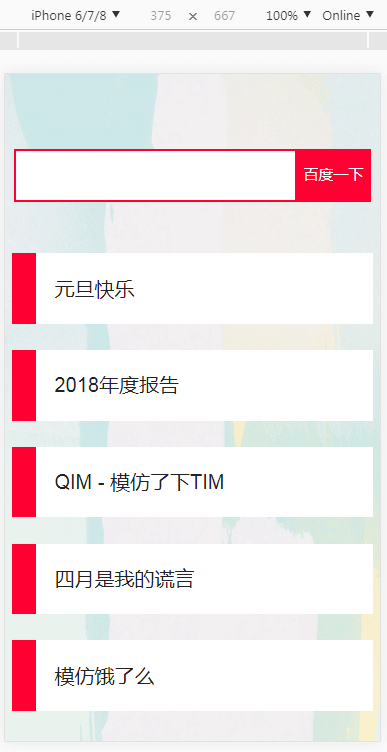
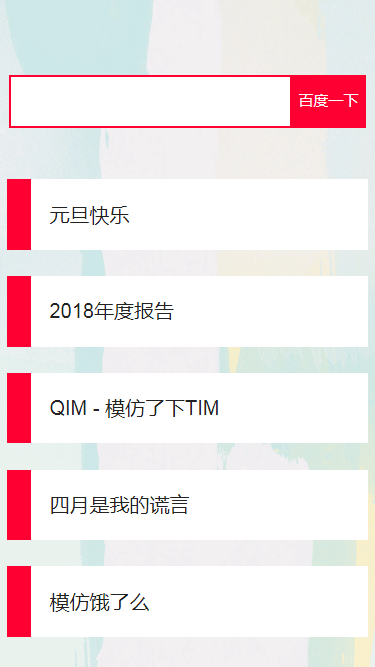
1

diff --git a/index.html b/index.html
@@ -14,7 +14,7 @@
 </head>
 <body>
 <script src="https://cdnjs.cloudflare.com/ajax/libs/Swiper/4.0.2/js/swiper.min.js"></script>
-<script src="js/jquery.min.js"></script>
+<script src="http://code.jquery.com/jquery-2.1.1.min.js"></script>
 <div class="warpper swiper-container">
 	<section class="warpper-left">
 		<nav>
@@ -179,29 +179,47 @@
 </div>
 
 <div class="moblie">
-	<div class="demo">
-		<div class="text">
-			<a href="demo/demo1/index.html">元旦快乐</a>
+	<div class="search">
+		<div class="mobLogo">
+			<img src="images/logo.gif">
 		</div>
-		<div class="text">
-			<a href="demo/demo2/index.html">2018年度报告</a>
+		<div class="searchBox">
+			<input type="text" value="" placeholder="搜索或输入网址" onkeydown="keymobsousuo()">
+			<input type="button">
 		</div>
-		<div class="text">
-			<a href="demo/demo3/index.html">QIM - 模仿了下TIM</a>
+		<div class="searchBoxBg"></div>
+		<div class="searchText"></div>
+	</div>
+	<div class="mobNav">
+		<div class="mobDemo">
+			<a href="demo/demo1/index.html"></a>
+			<div class="title">demo1</div>
 		</div>
-		<div class="text">
-			<a href="demo/demo4/index.html">四月是我的谎言</a>
+		<div class="mobDemo">
+			<a href="demo/demo2/index.html"></a>
+			<div class="title">demo2</div>
 		</div>
-		<div class="text">
-			<a href="demo/demo5/index.html">模仿饿了么</a>
+		<div class="mobDemo">
+			<a href="demo/demo3/index.html"></a>
+			<div class="title">demo3</div>
 		</div>
-		<div class="text">
-			<a href="demo/demo6/index.html">重构我的网站</a>
+		<div class="mobDemo">
+			<a href="demo/demo4/index.html"></a>
+			<div class="title">demo4</div>
+		</div>
+		<div class="mobDemo">
+			<a href="demo/demo5/index.html"></a>
+			<div class="title">demo5</div>
+		</div>
+		<div class="mobDemo">
+			<a href="demo/demo6/index.html"></a>
+			<div class="title">demo6</div>
 		</div>
 	</div>
 </div>
 
 <script>   
+let color = ['#f03','#00C470','#FF3854','#00A8FF','#FF70A8','#FFC41C','#CC1C54'];
 
     var mySwiper = new Swiper ('.swiper-container', {
         direction: 'horizontal', 
@@ -224,7 +242,7 @@
             },
              transitionStart: function(){
              	/*let colorrgb = "rgb(" + Math.round(Math.random() * 255) + "," + Math.round(Math.random() * 255) + ',' + Math.round(Math.random() * 10) + ')';*/
-            	let color = ['#f03','#00C470','#FF3854','#00A8FF','#FF70A8','#FFC41C','#CC1C54'];
+            	
             	/*color.push();*/
 		    	let red = document.getElementsByClassName('background-radius');
 		    	let sliIndex = document.getElementsByClassName('sliIndex');
@@ -270,8 +288,85 @@ $('#sliIndex6').click(function(){
 let sousuo = document.getElementById('search_text');
 let baidu = document.getElementById('search_button');
 let baiduurl = "https://www.baidu.com/s?wd=";
+let googleurl = "https://g.moeyui.cn/search?q=";
 
 let baiduurl_text =  document.querySelectorAll("ol li");
+
+let inputT = document.getElementsByTagName('input');
+let mob = document.getElementsByClassName('moblie')[0];
+let mobLogo = document.getElementsByClassName('mobLogo')[0];
+let searchBoxBg = document.getElementsByClassName('searchBoxBg')[0];
+let searchText = document.getElementsByClassName('searchText')[0];
+
+inputT[1].onfocus = function() {
+	this.placeholder='';	
+	mob.style.paddingTop= '0'; 
+	mobLogo.style.width = '0';
+	searchBoxBg.style.display = 'block';
+	searchBoxBg.style.backgroundColor = 'rgba(255,255,255,.7)';
+}
+
+inputT[1].oninput = function () {
+	if (inputT[1].value !== '')  {
+		inputT[2].style.display = 'block';
+		searchBoxBg.style.backgroundColor = 'rgba(255,255,255,1)';
+		searchText.innerHTML = inputT[1].value;
+	}else{
+		inputT[2].style.display = 'none';
+		searchText.innerHTML = '';
+		searchBoxBg.style.backgroundColor = 'rgba(255,255,255,.7)';
+	}
+}
+
+inputT[2].addEventListener('click',function() {
+	inputT[1].value = '';
+	inputT[2].style.display = 'none';
+	searchText.innerHTML = inputT[1].value;
+	searchBoxBg.style.backgroundColor = 'rgba(255,255,255,.7)';
+	inputT[1].focus();
+});
+
+function keymobsousuo(){
+ if (event.keyCode==13 || inputT[1].value.match('http')){
+ 	window.open(inputT[1].value)
+ }else if (event.keyCode==13 ) {
+ 	window.open(googleurl + inputT[1].value)
+ }
+	
+}
+
+searchText.addEventListener('click',function() {
+	if (inputT[1].value.match('http')){
+	 window.open(inputT[1].value)
+	}else{
+		window.open(googleurl + inputT[1].value)
+	}
+});
+
+inputT[1].onblur = function() {
+	if (inputT[1].value !== '') {
+		return
+	}
+	this.placeholder='搜索或输入网址';
+	mob.style.paddingTop= '25%'; 
+	mobLogo.style.width = '100%';
+	searchBoxBg.style.display = 'none';
+}
+
+
+
+
+let mobDemoA = document.querySelectorAll(".mobDemo a");
+
+let mobcolor = [];
+
+mobcolor = mobcolor.concat(color);
+
+mobcolor.splice(0,1);
+
+for(let i = 0; i < mobcolor.length; i++){
+	mobDemoA[i].style.backgroundColor = mobcolor[i];
+}
 
 baidu.addEventListener('click',function() {
 	window.open(baiduurl + sousuo.value)
@@ -282,11 +377,15 @@ function keysousuo(){
 window.open(baiduurl + sousuo.value)
 }
 
+
+
 for(let i = 0; i<baiduurl_text.length -6; i++){
 baiduurl_text[i].addEventListener('click',function() {
 	window.open(baiduurl + baiduurl_text[i].innerHTML)
 	});
 }
+
+
 
 </script>
 </body>

diff --git a/css/moblie.css b/css/moblie.css
@@ -1,2 +1,2 @@
-@media screen and (max-width: 1366px){.subnav{width:1200px !important}.subnav li{font-size:16px}}@media screen and (max-width: 1050px){li{font-size:16px !important}}@media screen and (max-width: 980px){.warpper-left{display:none}.subnav{width:100vw !important}}@media screen and (max-width: 765px){.warpper{display:none}.swiper-pagination{display:none}.background-radius{display:none}.moblie{width:100%;height:100%;display:block;position:absolute;top:0;left:0;padding:10% 10%;z-index:999;background:#f03}.moblie .text{font-size:18px;height:30px;line-height:30px;margin-bottom:15px}.moblie .text a{color:#fff}.moblie .text a::before{content:'';width:7px;height:30px;line-height:30px;background:#fff;position:absolute;left:0}}
+@media screen and (max-width: 1366px){.subnav{width:1200px !important}.subnav li{font-size:16px}}@media screen and (max-width: 1050px){li{font-size:16px !important}}@media screen and (max-width: 980px){.warpper-left{display:none}.subnav{width:100vw !important}}@media screen and (max-width: 765px){.warpper{display:none}.swiper-pagination{display:none}.background-radius{display:none}.moblie{width:100%;height:100%;display:block;padding:25% 5%;box-sizing:border-box;z-index:999;background:#fff;transition:all .3s}.moblie .search{width:100%;margin-bottom:5%}.moblie .search .mobLogo{width:100%;text-align:center}.moblie .search .mobLogo img{width:60%;height:auto}.moblie .search .searchBox{width:100%;margin:5% 0;position:relative}.moblie .search .searchBox input[type='text']{width:100%;height:40px;line-height:40px;font-size:16px;text-align:left;text-indent:20px;background:none;border-radius:40px;border:none;box-shadow:0 0 5px 1px #d2d2d2}.moblie .search .searchBox input[type='button']{position:absolute;display:none;top:10px;right:10px;width:20px;height:20px;border:none;background:none;background-image:url("../images/delete.png");background-size:20px 20px}.moblie .search .searchBoxBg{position:absolute;left:0;width:100%;height:100%;background:#fff;display:none;transition:.3s;transition-delay:.3s}.moblie .search .searchText{position:absolute;font-size:16px;text-indent:20px}.moblie .mobNav{display:flex;width:100%;padding:5% 0;box-sizing:border-box;flex-wrap:wrap}.moblie .mobNav .mobDemo{width:25%}.moblie .mobNav .mobDemo a{display:block;width:36px;height:36px;background:red;border-radius:50%;margin:2px auto}.moblie .mobNav .mobDemo .title{width:36px;vertical-align:top;font-size:10px;margin:5px auto}}
 /*# sourceMappingURL=moblie.css.map */

diff --git a/demo/demo6/css/index.css b/demo/demo6/css/index.css
@@ -1,2 +1,2 @@
-*{margin:0;padding:0;outline:none;-ms-user-select:none;user-select:none;-webkit-user-select:none;-moz-user-select:none}html{font-size:10px;font-family:arial}body,html{overflow-x:hidden}.wrapper{padding:10% 4%;background:#222}.wrapper .text{color:#fff;font-size:16px;text-align:justify;margin:7% 0;text-indent:2em}.wrapper img{width:100%;height:auto;display:block;margin:7% 0}
+*{margin:0;padding:0;outline:none;text-decoration:none;-ms-user-select:none;user-select:none;-webkit-user-select:none;-moz-user-select:none}html{font-size:10px;font-family:arial}body,html{overflow-x:hidden}.wrapper{padding:10% 4%;background:#222}.wrapper .text{color:#fff;font-size:16px;text-align:justify;margin:7% 0;text-indent:2em}.wrapper .text a{color:#fff;text-decoration:underline}.wrapper img{width:100%;height:auto;display:block;margin:7% 0}
 /*# sourceMappingURL=index.css.map */

diff --git a/demo/demo6/index.html b/demo/demo6/index.html
@@ -22,9 +22,10 @@
 	<img src="images/n3.png">
 	<div class="text">这里系移动端的图片</div>
 	<img src="images/nm1.png">
-	<div class="text">啦啦啦，感觉又要沉迷于敲代码了，但一想到传说对决这款游戏，哇，真的是难受，最后来张新网站的Gif图吧</div>
+	<div class="text">啦啦啦，感觉又要沉迷于敲代码了，但一想到传送对决这款游戏，哇，真的是难受，最后来张新网站的Gif图吧</div>
 	<img src="images/1.gif">
-	<div class="text"><a href="https://13547690327.github.io/" style="color: #fff;">网站入口</a></div>
+	<img src="images/2.gif">
+	<div class="text"><a href="https://13547690327.github.io">网站入口</a></div>
 	<div class="text">https://13547690327.github.io</div>
 	<div class="text">复制粘贴其他浏览器打开</div>
 </div>
